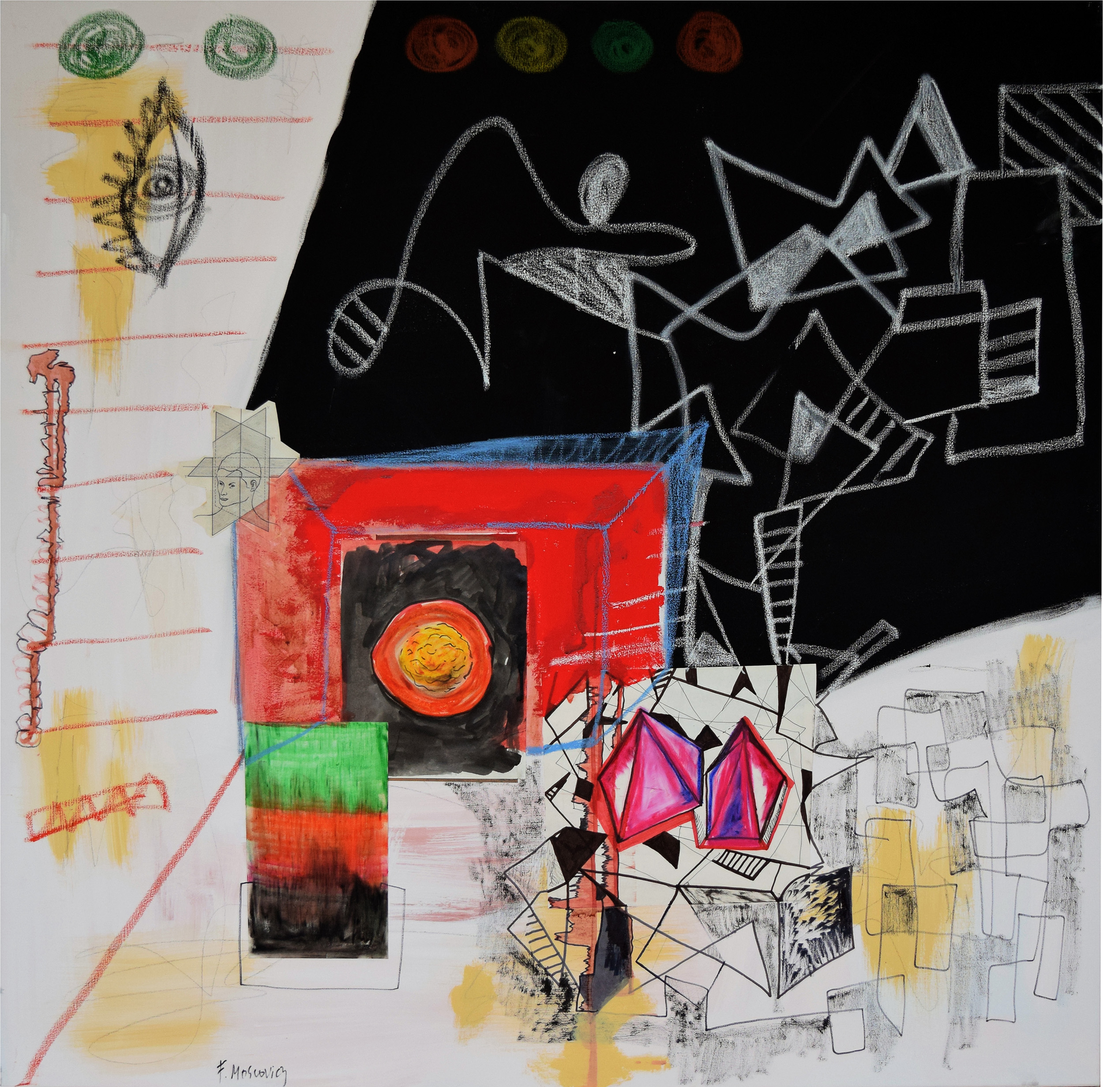
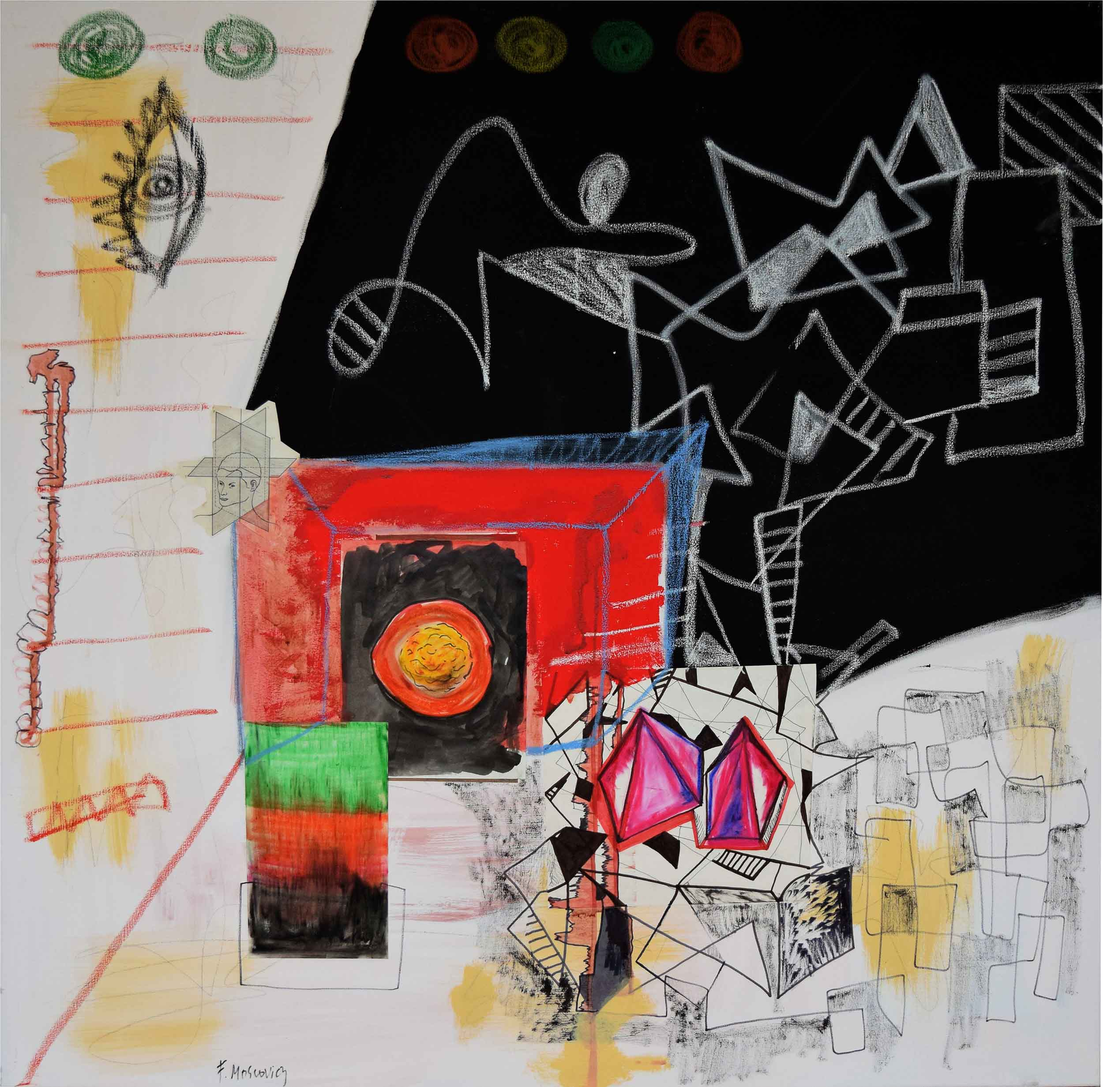
reducción tamaño imagenes

Changed region(s): [[0.5928, 0.4373, 0.624, 0.5935], [0.5616, 0.5935, 0.5928, 0.6247]]

diff --git a/index.html b/index.html
@@ -26,7 +26,7 @@
         <div class="exposicion-temporal">
             <a href="https://www.adrianabudich.com/" target="_blank"><p class="exposicion-temporal-text">"UBICACIÓN DESCONOCIDA" - EXPOSIÓN VIRTUAL POR TIEMPO LIMITADO</p></a>
         </div>
-        <img class="logo" src="images/logo.png" alt="Moscovicz"/>
+        <img class="logo" src="images/logo.jpg" alt="Moscovicz"/>
     </header>
     <nav>
         <!-- menu desktop -->
@@ -199,13 +199,13 @@
             </a> 
             <a class="obras-popup" href="javascript:ventanaSecundaria('popups-obras/1955_130x100.html')">
                 <div class="cuadro-contenedor"> 
-                    <img class="cuadro-imagen" src="images/cuadros/1955_130x100.jpeg" alt="1955"/>
+                    <img class="cuadro-imagen" src="images/cuadros/1955_130x100.jpg" alt="1955"/>
                     <h4 class="cuadro-texto">1955</h4>            
                 </div>
             </a>
             <a class="obras-popup" href="javascript:ventanaSecundaria('popups-obras/desocupados_130x100.html')">
                 <div class="cuadro-contenedor">
-                    <img class="cuadro-imagen" src="images/cuadros/desocupados_130x100.jpeg" alt="Desocupados"/>
+                    <img class="cuadro-imagen" src="images/cuadros/desocupados_130x100.jpg" alt="Desocupados"/>
                     <h4 class="cuadro-texto">Desocupados</h4>
                 </div>
             </a>
@@ -387,13 +387,13 @@
             <input id="abrir-cuadro1" type="checkbox" class="abrir-cuadro-input">
                 <div class="cuadro-contenedor"> 
                         <h4 class="titulo-cuadro-mobile">1955</h4>  
-                    <label for="abrir-cuadro1" class="abrir-cuadro-label"><img class="cuadro-imagen" src="images/cuadros/1955_130x100.jpeg" alt="1955"/></label>
+                    <label for="abrir-cuadro1" class="abrir-cuadro-label"><img class="cuadro-imagen" src="images/cuadros/1955_130x100.jpg" alt="1955"/></label>
                         <p class="descripcion-cuadro-mobile">130x100cm</p>
                 </div>
             <input id="abrir-cuadro2" type="checkbox" class="abrir-cuadro-input">
                 <div class="cuadro-contenedor">
                         <h4 class="titulo-cuadro-mobile">Desocupados</h4>
-                    <label for="abrir-cuadro2" class="abrir-cuadro-label"><img class="cuadro-imagen" src="images/cuadros/desocupados_130x100.jpeg" alt="Desocupados"/></label>
+                    <label for="abrir-cuadro2" class="abrir-cuadro-label"><img class="cuadro-imagen" src="images/cuadros/desocupados_130x100.jpg" alt="Desocupados"/></label>
                         <p class="descripcion-cuadro-mobile">130x100cm</p>
                 </div>
             <input id="abrir-cuadro3" type="checkbox" class="abrir-cuadro-input">

diff --git a/popups-obras/desocupados_130x100.html b/popups-obras/desocupados_130x100.html
@@ -36,7 +36,7 @@
 </head>
 <body>
     <div class="contenedor-cuadro">
-        <img src="../images/cuadros/desocupados_130x100.jpeg" alt="Desocupados"/>
+        <img src="../images/cuadros/desocupados_130x100.jpg" alt="Desocupados"/>
         <p><strong>Desocupados</strong> - 130x100cm</p>
     </div>
 </body>

diff --git a/popups-obras/1955_130x100.html b/popups-obras/1955_130x100.html
@@ -36,7 +36,7 @@
 </head>
 <body>
     <div class="contenedor-cuadro">
-        <img src="../images/cuadros/1955_130x100.jpeg" alt="1955"/>
+        <img src="../images/cuadros/1955_130x100.jpg" alt="1955"/>
         <p><strong>1955</strong> - 130x100cm</p>
     </div>
 </body>
